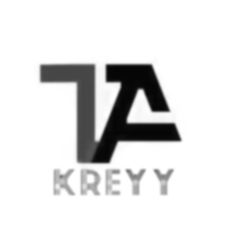
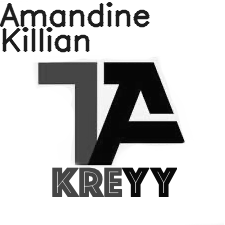
Story 13 fini, effectuée, préparation de quelque fichiers pour story 9

Changed region(s): [[0.0, 0.0, 0.84, 0.9022]]

diff --git a/main.py b/main.py
@@ -5,6 +5,7 @@ import cv2
 import BlackAndWhite
 import GaussianBlur
 import Dilate
+import ZeTeam
 
 import logger as log
 
@@ -116,6 +117,13 @@ def args_fonction():
                                 print(f"Filtre Dilate Appliqué = {entry.name}")
                                 log.log(f"Filtre Dilate Appliqué = {entry.name}")
                             # Sinon on lui dit que le filtre n'est pas valide en lui mettant ce qu'il a entrée
+                        # Si la liste commence par zeTeam alors
+                        elif a.startswith("zeTeam"):
+                            # On applique le filtre zeTeam sur tout les photos,
+                            img = ZeTeam.TransformZeTeam(img)
+                            # On lui dit que c'est fait
+                            print(f"Filtre ZeTeam Appliqué = {entry.name}")
+                            log.log(f"Filtre ZeTeam Appliqué = {entry.name}")
                         else:
                             log.log("Le nom du filtre est invalide")
                             print("filtre non valide")

diff --git a/ZeTeam.py b/ZeTeam.py
@@ -1,0 +1,26 @@
+import cv2
+
+
+def TransformZeTeam(img):
+
+    # font
+    font = cv2.FONT_HERSHEY_SIMPLEX
+
+    # org
+    orgA = (0, 25)
+    orgK = (0, 50)
+    # fontScale
+    fontScale = 1
+
+    # Blue color in BGR
+    color = (255, 0, 0)
+
+    # Line thickness of 2 px
+    thickness = 2
+
+    line_type = cv2.LINE_AA
+
+    img = cv2.putText(img, f"Amandine", orgA, font, fontScale, color, thickness, line_type)
+    img = cv2.putText(img, f"Killian", orgK, font, fontScale, color, thickness, line_type)
+
+    return img
